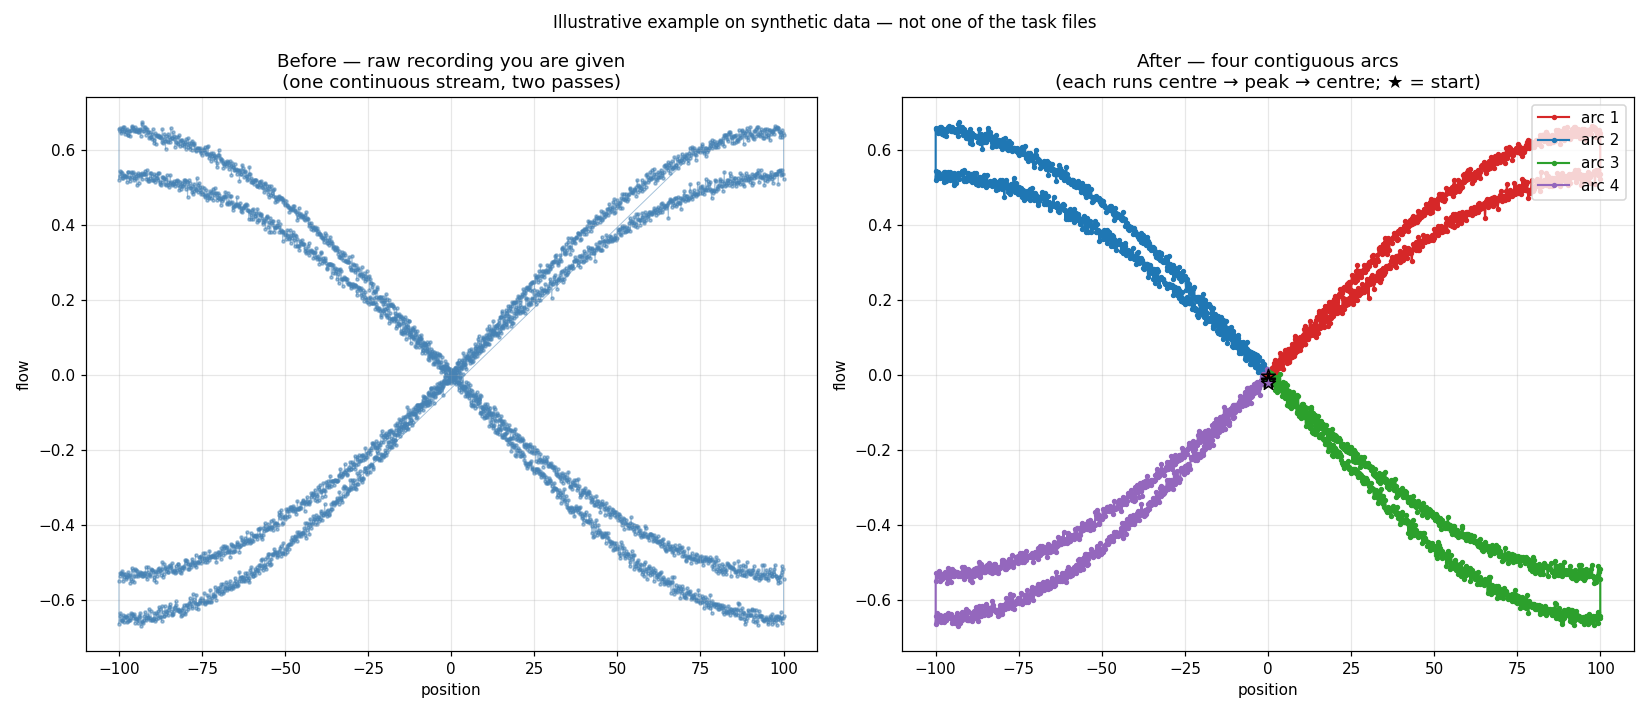
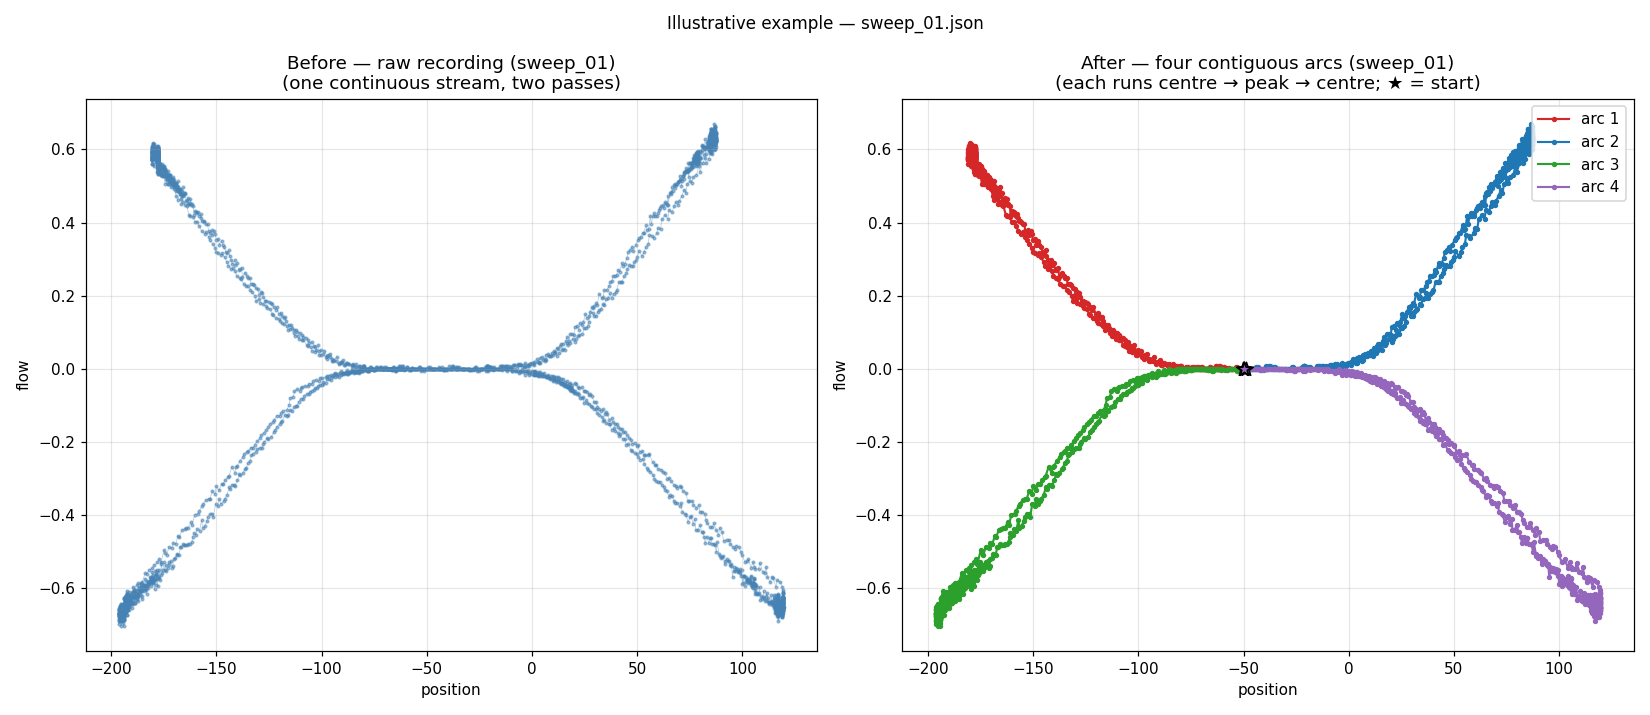
Replace synthetic example with real sweep_01 recording
Uses a reference splitting implementation on sweep_01.json to produce
the before/after image, so candidates can see what a correct result looks
like on one of the actual task files.

diff --git a/README.md b/README.md
@@ -76,10 +76,10 @@ region, with the highest flow values sitting in the middle of the arc.
 
 ## Example
 
-The image below shows what a correct result looks like, produced on synthetic
-data (not one of the task files). Left: the raw recording as given. Right: the
-same data split into four contiguous arcs, each running centre → peak → centre.
-The ★ marks the start of each arc.
+The image below shows what a correct result looks like, using `sweep_01.json`.
+Left: the raw recording as given. Right: the same data split into four
+contiguous arcs, each running centre → peak → centre. The ★ marks the start
+of each arc.
 
 ![Illustrative example on synthetic data](example/target_example.png)
 